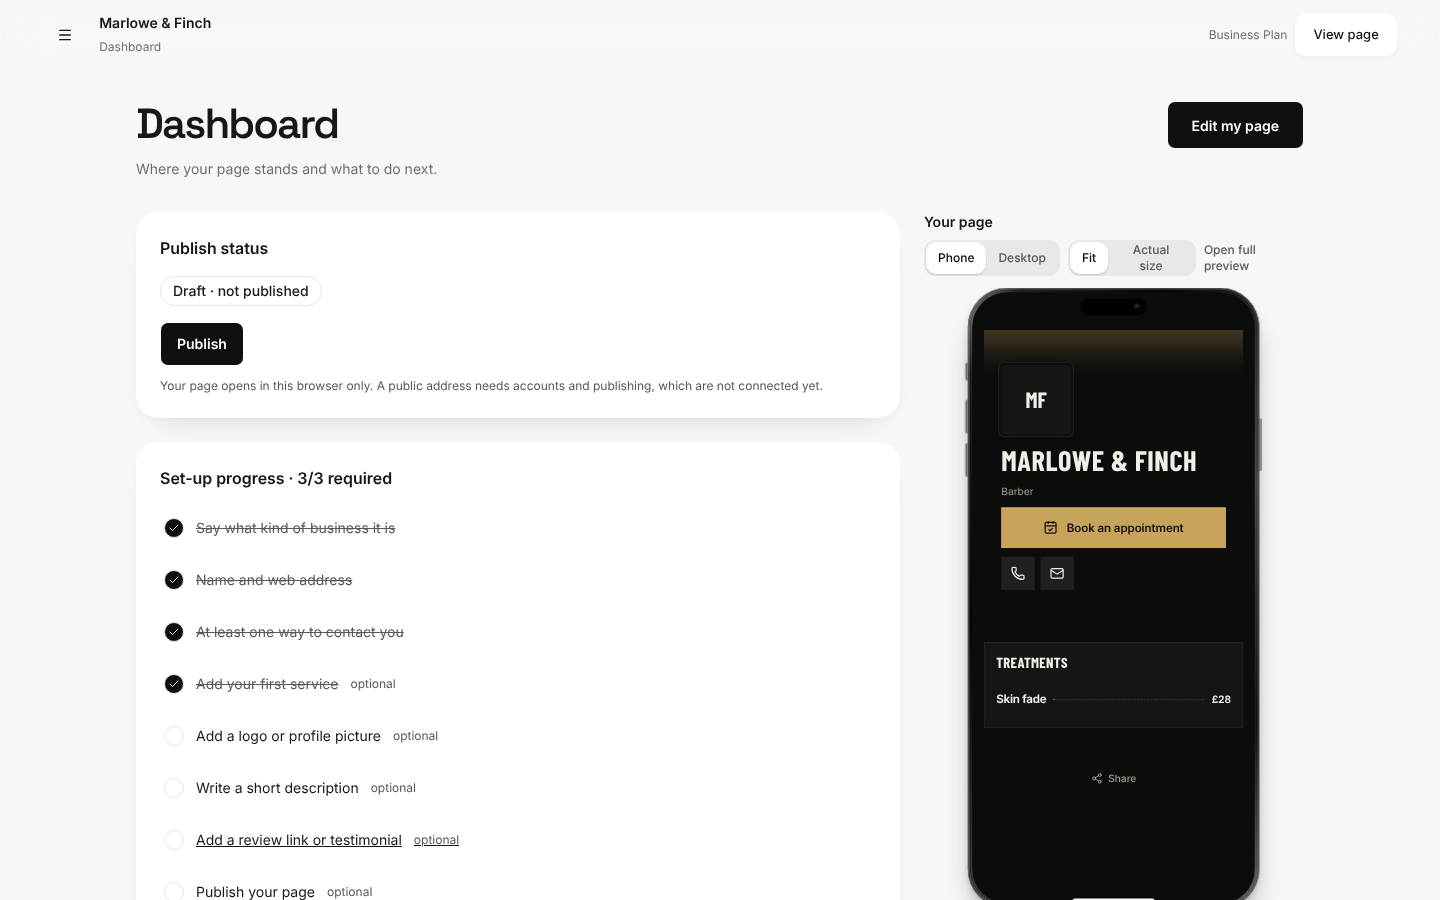
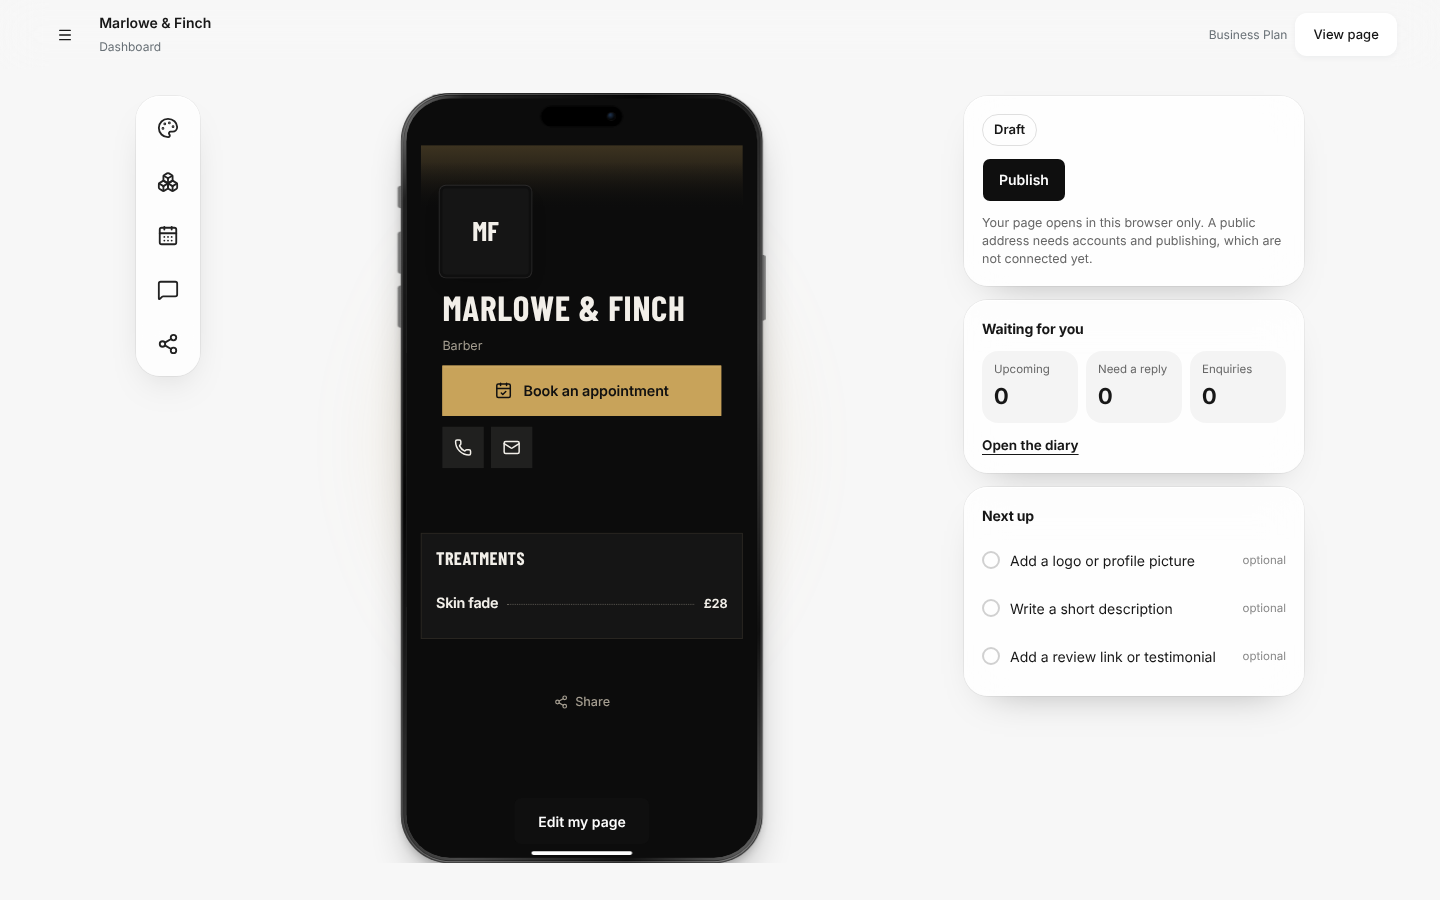
Studio dashboard: the page at the centre with a glass dock, status, waiting-for-you and plan-aware discovery

diff --git a/src/features/demo/dashboard/Studio.tsx b/src/features/demo/dashboard/Studio.tsx
@@ -1,0 +1,118 @@
+"use client"
+
+import * as React from "react"
+import Link from "next/link"
+import { Boxes, CalendarDays, Check, Copy, Lock, MessageSquare, Palette, Share2, Sparkles } from "lucide-react"
+import { Button } from "@/components/ui/button"
+import { businessAddress } from "@/lib/domains"
+import { WHEN_UNAVAILABLE } from "@/lib/capabilities"
+import { PagePreview } from "@/features/preview/PagePreview"
+import { useOwner } from "@/features/booking/ui/owner/useOwner"
+import { nowMs } from "@/features/booking/clock"
+import { PLANS, PLAN_IDS, type PlanId } from "@/features/subscriptions/plans"
+import { resolveEntitlements, type Entitlements } from "@/features/subscriptions/entitlements"
+import { cn } from "@/lib/utils"
+import { canPublish, hasUnpublishedChanges, publish, readiness, unpublish } from "../actions"
+import { useDraft } from "../hooks"
+import "./studio.css"
+
+const DOCK = [
+  { href: "/dashboard/page", label: "Page and design", Icon: Palette },
+  { href: "/dashboard/services", label: "Services and stock", Icon: Boxes },
+  { href: "/dashboard/bookings", label: "Calendar and bookings", Icon: CalendarDays },
+  { href: "/dashboard/bookings", label: "Messages and enquiries", Icon: MessageSquare, badge: "enquiries" as const },
+  { href: "/dashboard/page", label: "Share, QR and wallet", Icon: Share2 },
+] as const
+
+/** Things the owner does not have yet, each with the first plan that includes it. Shown only when a plan is what stands between them and it. */
+const DISCOVER: { key: keyof Entitlements; title: string; line: string }[] = [
+  { key: "onlineBooking", title: "Let customers pick a time", line: "A live diary on your page, with times that disappear as they are taken." },
+  { key: "analytics", title: "See who looks at your page", line: "Visits, taps on call and booking, and where people came from." },
+  { key: "gallery", title: "Show your work", line: "A photo gallery that opens full screen, right on your page." },
+  { key: "removeBranding", title: "Make the page entirely yours", line: "Remove the small Taplo signature at the bottom." },
+  { key: "payments", title: "Take deposits", line: "Secure a booking with a payment when the customer books." },
+]
+const firstPlanWith = (key: keyof Entitlements): PlanId | null => PLAN_IDS.find((p) => Boolean(resolveEntitlements(p, "active")[key])) ?? null
+
+/**
+ * The studio: your page is the centre of the screen, everything else floats around it. A dock of the five places you work, a
+ * status card, what to do next, what is waiting for you, and (only where a plan is the reason) what else is available.
+ */
+export function Studio() {
+  const { state: s, patch, ent } = useDraft()
+  const { state: bk } = useOwner()
+  const [copied, setCopied] = React.useState(false)
+  const [now, setNow] = React.useState(0)
+  React.useEffect(() => setNow(nowMs()), [])
+  if (!s || !ent) return null
+  const checks = readiness(s)
+  const requiredLeft = checks.filter((c) => c.required && !c.done)
+  const next = checks.filter((c) => !c.done).slice(0, 3)
+  const liveSlug = s.published?.content.identity.slug
+  const url = liveSlug ? `${window.location.origin}/demo/p/${liveSlug}` : null
+  const upcoming = bk.bookings.filter((b) => b.endsAt > now && (b.status === "confirmed" || b.status === "pending")).length
+  const awaiting = bk.bookings.filter((b) => b.status === "pending" && b.endsAt > now).length
+  const enquiries = bk.enquiries.filter((e) => e.status === "new").length
+  const discover = DISCOVER.filter((d) => !ent[d.key]).map((d) => ({ ...d, plan: firstPlanWith(d.key) })).filter((d) => d.plan).slice(0, 2)
+  return (
+    <div className="studio" data-testid="studio">
+      <nav className="studio-dock" aria-label="Studio">
+        {DOCK.map(({ href, label, Icon, ...rest }, i) => (
+          <Link key={i} href={href} className="studio-dock-item" aria-label={label}>
+            <Icon aria-hidden="true" />
+            {"badge" in rest && enquiries > 0 ? <b aria-label={`${enquiries} enquiries`}>{enquiries}</b> : null}
+            <span className="studio-dock-label">{label}</span>
+          </Link>
+        ))}
+      </nav>
+
+      <section className="studio-stage" aria-label="Your page">
+        <div className="studio-glow" aria-hidden="true" />
+        <div className="studio-phone"><PagePreview src="/demo/preview" title="Your page" mode="device" chrome url={businessAddress(s.content.identity.slug)} /></div>
+        <Button asChild size="lg" variant="outline" className="studio-edit bg-white text-black hover:bg-white/90"><Link href="/dashboard/page">Edit my page</Link></Button>
+      </section>
+
+      <aside className="studio-side" aria-label="Status and next steps">
+        <div className="studio-card">
+          <div className="studio-row">
+            <span className={cn("studio-pill", s.published && "studio-pill-live")}>{s.published ? `Published · v${s.published.version}` : "Draft"}</span>
+            {hasUnpublishedChanges(s) ? <span className="studio-note">Unpublished changes</span> : null}
+          </div>
+          <div className="studio-row studio-actions">
+            <Button disabled={!canPublish(s)} onClick={() => patch(publish)}>{s.published ? "Publish changes" : "Publish"}</Button>
+            {s.published ? <Button variant="outline" onClick={() => patch(unpublish)}>Unpublish</Button> : null}
+            {url ? <Button variant="outline" asChild><a href={url} target="_blank" rel="noreferrer">View</a></Button> : null}
+            {url ? <Button variant="outline" aria-label="Copy link" onClick={async () => { try { await navigator.clipboard.writeText(url); setCopied(true); setTimeout(() => setCopied(false), 1800) } catch {} }}>{copied ? <Check aria-hidden="true" /> : <Copy aria-hidden="true" />}</Button> : null}
+          </div>
+          {!canPublish(s) ? <p className="studio-note">To publish: {requiredLeft.map((c) => c.label.toLowerCase()).join(", ")}.</p> : <p className="studio-note">{WHEN_UNAVAILABLE.publicPublishing}</p>}
+        </div>
+
+        <div className="studio-card" data-testid="upcoming-bookings">
+          <h2>Waiting for you</h2>
+          <dl className="studio-stats">
+            <div><dt>Upcoming</dt><dd>{upcoming}</dd></div>
+            <div><dt>Need a reply</dt><dd>{awaiting}</dd></div>
+            <div><dt>Enquiries</dt><dd>{enquiries}</dd></div>
+          </dl>
+          <Link href="/dashboard/bookings" className="studio-link">Open the diary</Link>
+        </div>
+
+        {next.length ? (
+          <div className="studio-card">
+            <h2>Next up</h2>
+            <ul className="studio-list">{next.map((c) => <li key={c.id}><Link href={c.href}><span className="studio-dot" aria-hidden="true" />{c.label}{!c.required ? <i>optional</i> : null}</Link></li>)}</ul>
+          </div>
+        ) : null}
+
+        {discover.length ? (
+          <div className="studio-card studio-discover">
+            <h2><Sparkles aria-hidden="true" /> You could also</h2>
+            <ul className="studio-list">{discover.map((d) => (
+              <li key={d.key}><Link href="/pricing"><span><strong>{d.title}</strong><small>{d.line}</small></span><em><Lock aria-hidden="true" />{PLANS[d.plan!].name}</em></Link></li>
+            ))}</ul>
+          </div>
+        ) : null}
+      </aside>
+    </div>
+  )
+}

diff --git a/src/features/demo/dashboard/studio.css b/src/features/demo/dashboard/studio.css
@@ -1,0 +1,45 @@
+/* The studio: the page in the middle, a glass dock on the left, floating cards on the right. */
+.studio{position:relative;display:grid;grid-template-columns:64px minmax(0,1fr) 340px;gap:24px;align-items:start;min-height:calc(100dvh - 120px)}
+.studio-dock{position:sticky;top:96px;display:grid;gap:6px;padding:8px;border-radius:24px;background:color-mix(in srgb,#fff 72%,transparent);-webkit-backdrop-filter:blur(22px) saturate(1.4);backdrop-filter:blur(22px) saturate(1.4);box-shadow:0 1px 0 #fff inset,0 0 0 1px #0000000d,0 18px 40px -22px #00000059}
+.studio-dock-item{position:relative;display:grid;place-items:center;width:48px;height:48px;border-radius:16px;color:#222;transition:background .2s,transform .2s}
+.studio-dock-item:hover{background:#00000010;transform:scale(1.06)}
+.studio-dock-item:focus-visible{outline:2px solid #111;outline-offset:1px}
+.studio-dock-item svg{width:22px;height:22px}
+.studio-dock-item b{position:absolute;top:4px;right:4px;min-width:18px;height:18px;padding:0 5px;border-radius:99px;background:#111;color:#fff;font-size:11px;line-height:18px;text-align:center}
+.studio-dock-label{position:absolute;left:calc(100% + 12px);top:50%;transform:translateY(-50%) translateX(-4px);white-space:nowrap;padding:7px 11px;border-radius:12px;background:#111;color:#fff;font-size:12.5px;font-weight:600;opacity:0;pointer-events:none;transition:opacity .15s,transform .15s}
+.studio-dock-item:hover .studio-dock-label,.studio-dock-item:focus-visible .studio-dock-label{opacity:1;transform:translateY(-50%)}
+.studio-stage{position:relative;display:grid;justify-items:center;min-height:min(820px,calc(100dvh - 130px))}
+.studio-glow{position:absolute;inset:6% 12%;border-radius:50%;background:radial-gradient(60% 60% at 50% 45%,color-mix(in srgb,var(--studio-glow,#c9a45c) 38%,transparent),transparent 70%);filter:blur(30px);pointer-events:none}
+.studio-phone{position:relative;width:100%;height:min(820px,calc(100dvh - 130px))}
+.studio-edit{position:absolute;bottom:34px;left:50%;transform:translateX(-50%);box-shadow:0 18px 36px -16px #000a}
+.studio-side{position:sticky;top:96px;display:grid;gap:14px}
+.studio-card{display:grid;gap:12px;padding:18px;border-radius:24px;background:color-mix(in srgb,#fff 80%,transparent);-webkit-backdrop-filter:blur(22px) saturate(1.4);backdrop-filter:blur(22px) saturate(1.4);box-shadow:0 1px 0 #fff inset,0 0 0 1px #0000000d,0 18px 40px -26px #00000059}
+.studio-card h2{display:flex;align-items:center;gap:6px;margin:0;font-size:14px;font-weight:700;letter-spacing:-.01em}
+.studio-card h2 svg{width:15px;height:15px}
+.studio-row{display:flex;flex-wrap:wrap;align-items:center;gap:8px}
+.studio-actions{gap:6px}
+.studio-pill{padding:5px 11px;border-radius:99px;border:1px solid #0000001f;font-size:13px;font-weight:600}
+.studio-pill-live{border-color:#16a34a66;background:#f0fdf4;color:#14532d}
+.studio-note{margin:0;font-size:12.5px;line-height:1.45;color:#666}
+.studio-stats{display:grid;grid-template-columns:repeat(3,1fr);gap:8px;margin:0}
+.studio-stats div{padding:10px 12px;border-radius:16px;background:#0000000a}
+.studio-stats dt{font-size:11.5px;color:#666}
+.studio-stats dd{margin:2px 0 0;font-size:22px;font-weight:700;letter-spacing:-.03em}
+.studio-link{justify-self:start;font-size:13.5px;font-weight:650;text-decoration:underline;text-underline-offset:4px}
+.studio-list{display:grid;gap:4px;margin:0;padding:0;list-style:none}
+.studio-list a{display:flex;align-items:center;gap:10px;min-height:44px;padding:6px 8px;margin:0 -8px;border-radius:14px;font-size:14px;transition:background .2s}
+.studio-list a:hover{background:#0000000a}
+.studio-list i{margin-left:auto;font-size:11.5px;font-style:normal;color:#888}
+.studio-dot{width:18px;height:18px;border-radius:50%;border:2px solid #0000002e;flex:none}
+.studio-discover .studio-list a{align-items:flex-start;padding:10px 8px}
+.studio-discover strong{display:block;font-size:14px}
+.studio-discover small{display:block;margin-top:2px;font-size:12.5px;line-height:1.4;color:#666}
+.studio-discover em{display:inline-flex;align-items:center;gap:4px;margin-left:auto;padding:3px 9px;border-radius:99px;background:#111;color:#fff;font-size:11.5px;font-style:normal;font-weight:650;white-space:nowrap}
+.studio-discover em svg{width:11px;height:11px}
+@media(max-width:1180px){.studio{grid-template-columns:64px minmax(0,1fr)}.studio-side{position:static;grid-column:1/-1;grid-template-columns:repeat(auto-fit,minmax(280px,1fr))}}
+@media(max-width:760px){
+  .studio{grid-template-columns:minmax(0,1fr);gap:18px;padding-bottom:84px}
+  .studio-dock{position:fixed;z-index:30;left:50%;bottom:max(14px,env(safe-area-inset-bottom));top:auto;transform:translateX(-50%);display:flex;gap:2px;padding:6px 8px;border-radius:26px}
+  .studio-dock-label{display:none}
+  .studio-stage,.studio-phone{min-height:0;height:min(640px,76dvh)}
+}

diff --git a/src/app/dashboard/page.tsx b/src/app/dashboard/page.tsx
@@ -1,5 +1,5 @@
-import { Overview } from "@/features/demo/dashboard/Overview"
+import { Studio } from "@/features/demo/dashboard/Studio"
 
 export default function Page() {
-  return <Overview />
+  return <Studio />
 }
